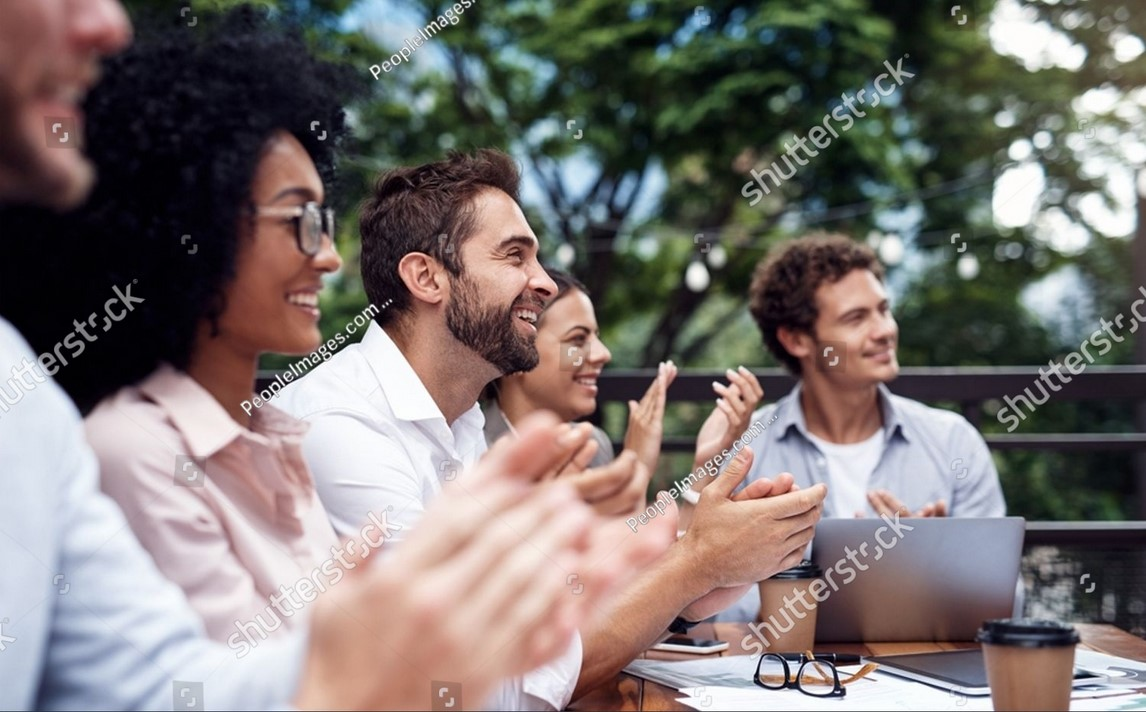
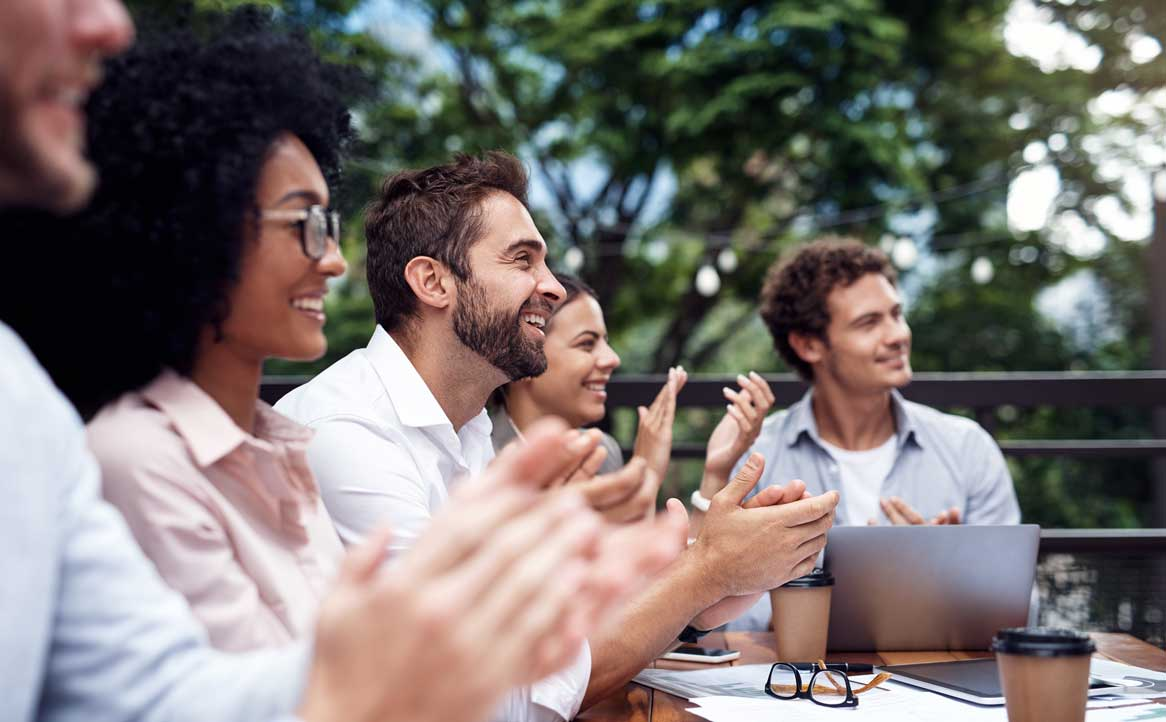
fix watermarked image, add texture to testimonials page bg, remove some options from form, give form fields background color

diff --git a/src/components/ContactForm/ContactForm.jsx b/src/components/ContactForm/ContactForm.jsx
@@ -81,10 +81,11 @@ const ContactForm = () => {
         onChange={handleFormChange}
         helperText={hasError.name ? "Name is required." : ""}
         fullWidth
+        className="form__field"
       />
       <div className="form__dual-field">
         <TextField
-          className="form__small-field"
+          className="form__small-field form__field"
           label="Email"
           id="email"
           name="email"
@@ -97,7 +98,7 @@ const ContactForm = () => {
           helperText={hasError.email ? "Email is required." : ""}
         />
         <TextField
-          className="form__small-field"
+          className="form__small-field form__field"
           label="Phone Number"
           id="phone"
           name="phone"
@@ -131,28 +132,7 @@ const ContactForm = () => {
             }
             label="Speaking"
           />
-          <FormControlLabel
-            control={
-              <Checkbox
-                name="services"
-                value="Consultation"
-                checked={formValues.services.includes("Consultation")}
-                onChange={handleFormChange}
-              />
-            }
-            label="Consultation"
-          />
-          <FormControlLabel
-            control={
-              <Checkbox
-                name="services"
-                value="Not Sure Yet"
-                checked={formValues.services.includes("Not Sure Yet")}
-                onChange={handleFormChange}
-              />
-            }
-            label="Not Sure Yet"
-          />
+
           <FormControlLabel
             control={
               <Checkbox
@@ -175,17 +155,7 @@ const ContactForm = () => {
             }
             label="One-on-One Coaching"
           />
-          <FormControlLabel
-            control={
-              <Checkbox
-                name="services"
-                value="Panel Moderation"
-                checked={formValues.services.includes("Panel Moderation")}
-                onChange={handleFormChange}
-              />
-            }
-            label="Panel Moderation"
-          />
+
           <FormControlLabel
             control={
               <Checkbox
@@ -236,30 +206,6 @@ const ContactForm = () => {
             }
             label="Media Training"
           />
-          <FormControlLabel
-            control={
-              <Checkbox
-                name="services"
-                value="Presentation Design"
-                checked={formValues.services.includes("Presentation Design")}
-                onChange={handleFormChange}
-              />
-            }
-            label="Presentation Design"
-          />
-          <FormControlLabel
-            control={
-              <Checkbox
-                name="services"
-                value="Leadership Communication"
-                checked={formValues.services.includes(
-                  "Leadership Communication"
-                )}
-                onChange={handleFormChange}
-              />
-            }
-            label="Leadership Communication"
-          />
         </div>
       </FormGroup>
       <TextField
@@ -275,6 +221,7 @@ const ContactForm = () => {
         onChange={handleFormChange}
         helperText={hasError.email ? "Make sure to include a message!" : ""}
         fullWidth
+        className="form__field"
       />
       <div>
         <button

diff --git a/src/pages/TestimonialsPage/TestimonialsPage.scss b/src/pages/TestimonialsPage/TestimonialsPage.scss
@@ -13,8 +13,6 @@
   }
 }
 .testimonials {
-  @include site-margins;
-  padding-bottom: 2rem;
   &__headline {
     text-align: center;
     font-weight: 100;
@@ -24,40 +22,6 @@
       font-size: 4rem;
       padding: 2rem 0;
     }
-    &-text {
-      text-align: center;
-      margin: 2rem 10%;
-      font-size: 1rem;
-      line-height: 1.5;
-    }
-  }
-  &__content {
-    padding-bottom: 2rem;
-    display: flex;
-    justify-content: space-between;
-    gap: 1rem;
-    @include tablet {
-      flex-direction: row;
-      gap: 2rem;
-    }
-    &-text {
-      line-height: 2;
-      display: flex;
-      flex-direction: column;
-      align-items: center;
-      @include tablet {
-        font-size: 1.25rem;
-        width: 50%;
-      }
-    }
-    &-gallery {
-      @include tablet {
-        width: 50%;
-      }
-    }
-  }
-  &__single-photo {
-    width: 100%;
   }
   &__list {
     @include site-margins;
@@ -65,10 +29,20 @@
     flex-wrap: wrap;
     justify-content: center;
     gap: 2rem;
-    &__text {
-      text-align: left;
-    }
     margin-bottom: 2rem;
+    &::before {
+      content: "";
+      position: absolute;
+      top: 0;
+      left: 0;
+      right: 0;
+      bottom: 0;
+      background-image: url("../../assets/abstract.jpg");
+      background-size: cover;
+      background-repeat: repeat;
+      opacity: 0.1;
+      z-index: -1;
+    }
   }
   &__card {
     position: relative;

diff --git a/src/components/PhotoGrid/PhotoGrid.jsx b/src/components/PhotoGrid/PhotoGrid.jsx
@@ -34,6 +34,13 @@ const PhotoGrid = () => {
       </ImageListItem>
       <ImageListItem>
         <img
+          src={photo6}
+          className="photo-grid__image photo-grid__image--pos1"
+          alt="Dennis Kenney at Harvard Business School with his students"
+        />
+      </ImageListItem>
+      <ImageListItem>
+        <img
           src={photo4}
           className="photo-grid__image photo-grid__image--pos1"
           alt="Dennis Kenney doing a Ted Talk at Babson College"
@@ -44,13 +51,6 @@ const PhotoGrid = () => {
           src={photo5}
           className="photo-grid__image photo-grid__image--pos1"
           alt="Dennis Kenney at Columbia Business School as a Speaking Professor"
-        />
-      </ImageListItem>
-      <ImageListItem>
-        <img
-          src={photo6}
-          className="photo-grid__image photo-grid__image--pos1"
-          alt="Dennis Kenney at Harvard Business School with his students"
         />
       </ImageListItem>
     </ImageList>

diff --git a/src/pages/CoachingPage/CoachingPage.scss b/src/pages/CoachingPage/CoachingPage.scss
@@ -4,15 +4,12 @@
 .top-section {
   @include site-margins;
   &__coaching {
-    background-image: url("../../assets/dennis-headshot-hero.jpg");
+    background-image: url("../../assets/dk-hero-lrg-flip.jpg");
     min-height: 66vh;
     background-color: #8e8073;
     background-size: cover;
     background-repeat: no-repeat;
     background-position: center;
-    @media (max-width: 768px) {
-      background-position: right -200px center; // Keep the right side visible
-    }
   }
 }
 .coaching {

diff --git a/src/pages/ContactPage/ContactPage.scss b/src/pages/ContactPage/ContactPage.scss
@@ -7,11 +7,12 @@
     background-image: url("../../assets/dk-hero-lrg.jpg");
     min-height: 40vh;
     background-repeat: no-repeat;
-    background-position: center top;
+    background-position-y: top;
+    background-position-x: 40%;
     background-size: cover;
-    // @media (max-width: 768px) {
-    //   background-position: right -200px center; // Keep the right side visible
-    // }
+    @include tablet {
+      background-position-x: right 40%;
+    }
   }
 }
 .contact {

diff --git a/src/components/ContactForm/ContactForm.scss b/src/components/ContactForm/ContactForm.scss
@@ -28,4 +28,7 @@
     flex-direction: column;
     // flex-wrap: wrap;
   }
+  &__field {
+    background-color: white;
+  }
 }
